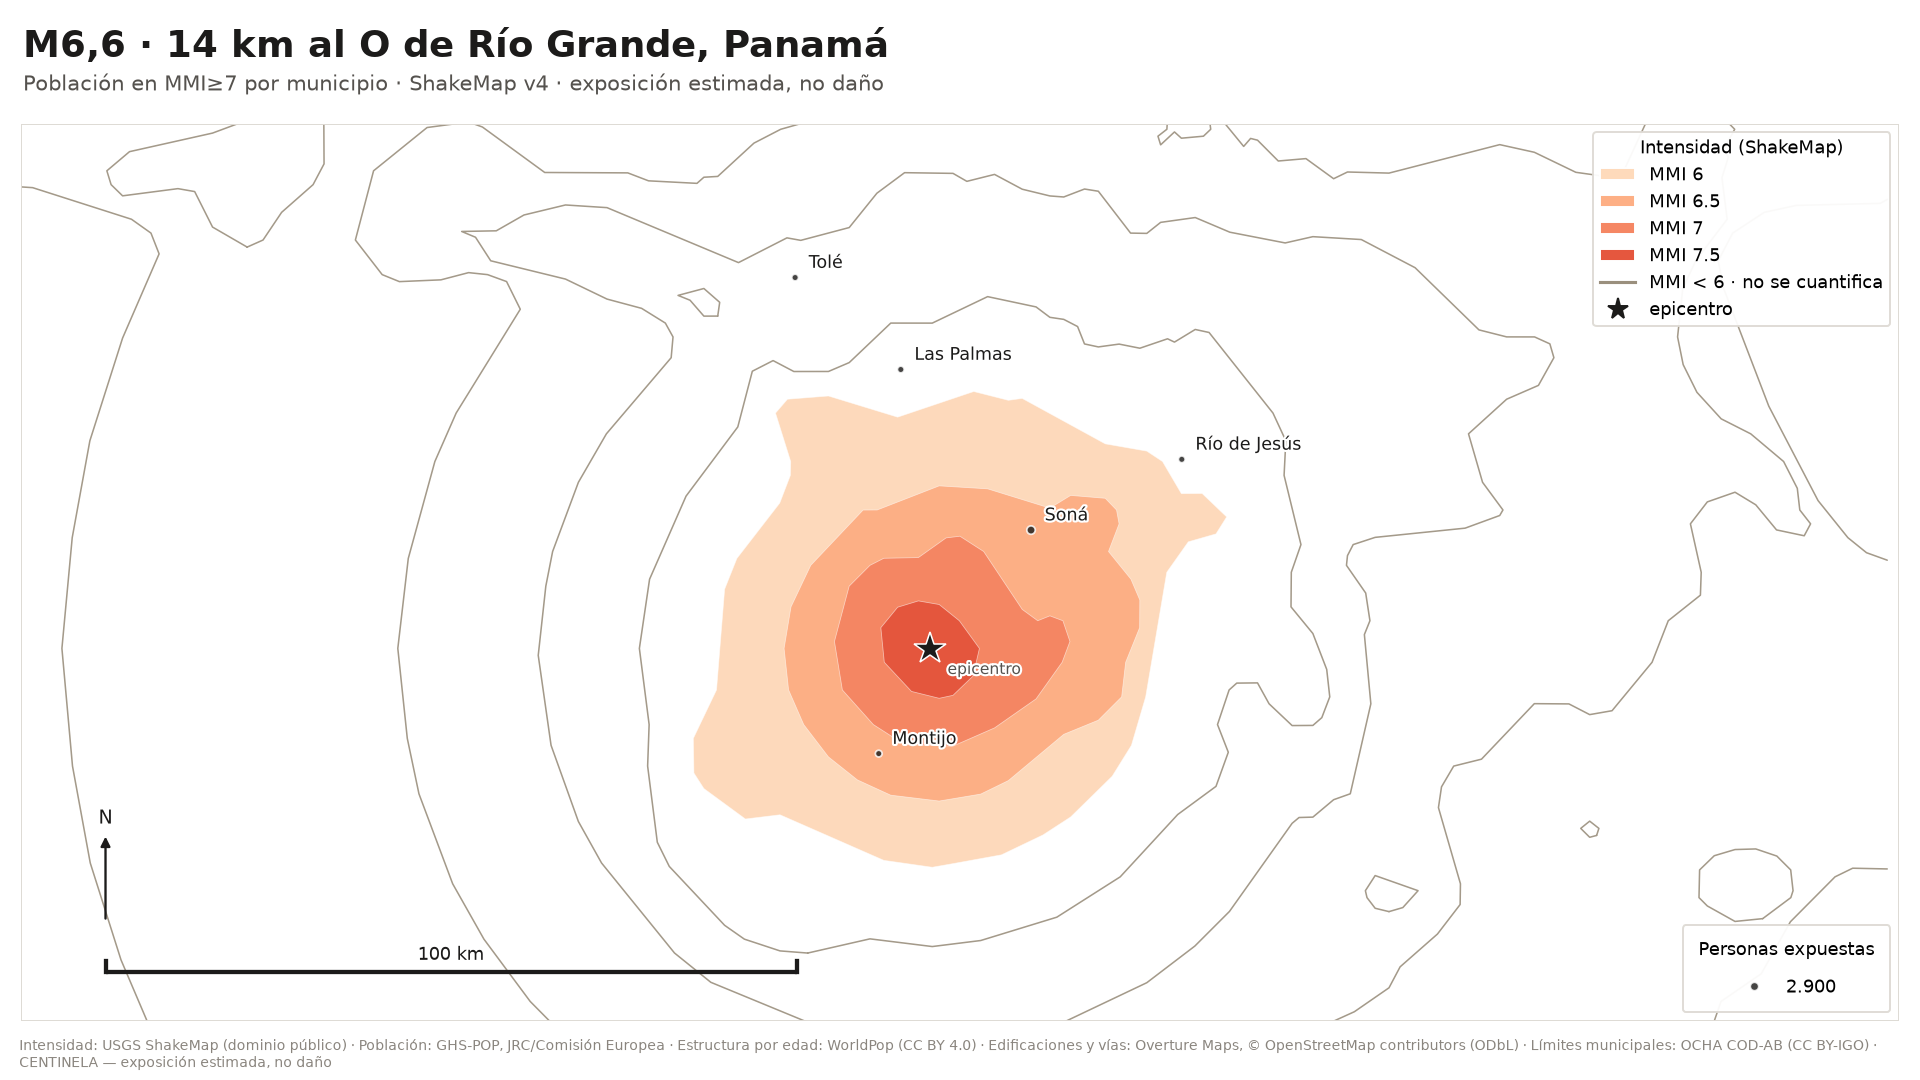
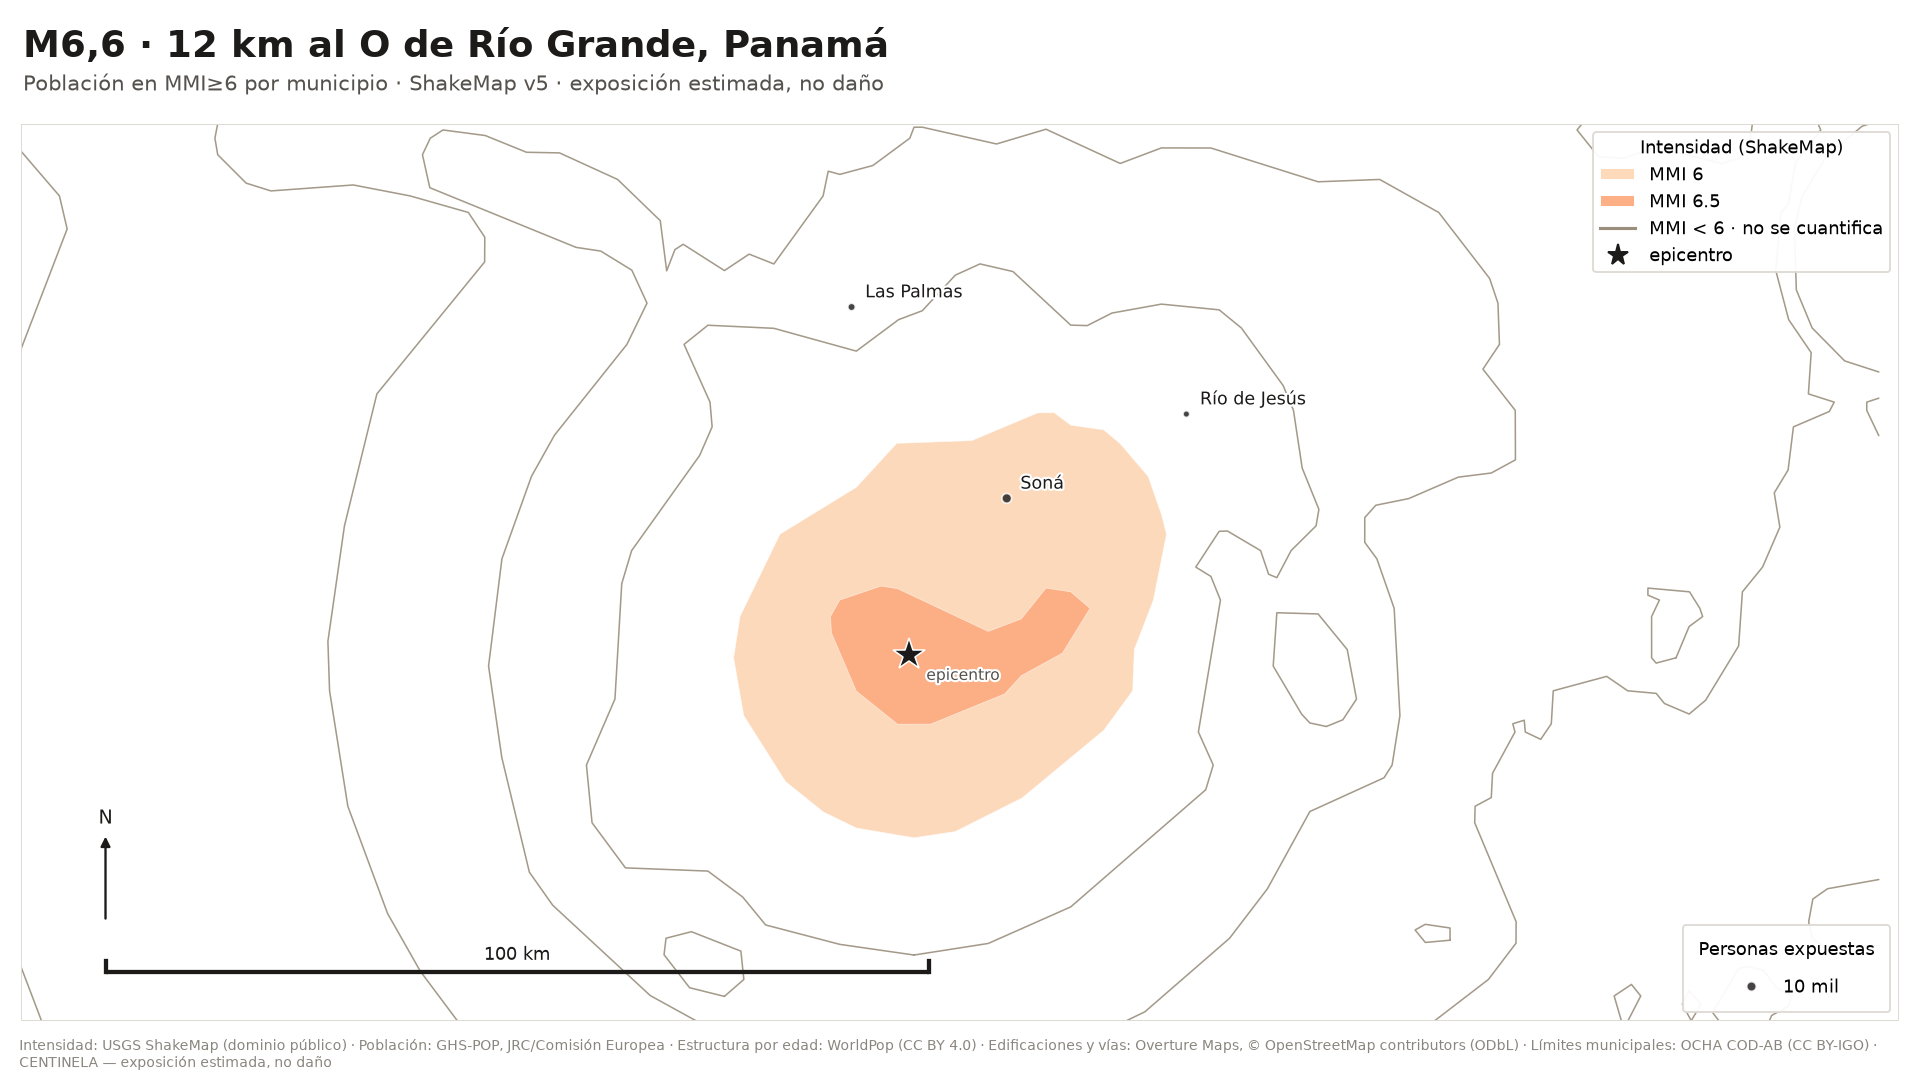
P3: reporte de pt26282001

diff --git a/reports/pt26282001/report.md b/reports/pt26282001/report.md
@@ -1,41 +1,42 @@
-# Exposición sísmica: M6,6 · 14 km al O de Río Grande, Panamá
+# Exposición sísmica: M6,6 · 12 km al O de Río Grande, Panamá
 
-**Evento USGS:** `pt26282001` · **Origen:** 2026-10-09T20:25:40Z UTC · **Profundidad:** 10,0 km
+**Evento USGS:** `pt26282001` · **Origen:** 2026-10-09T20:25:40Z UTC · **Profundidad:** 24,0 km
 
 ## Exposición estimada
 
 | Indicador | Estimado |
 |---|---:|
-| Población en MMI≥6 | 28 mil |
-| Población en MMI≥7 | 2.900 |
+| Población en MMI≥6 | 12 mil |
+| Población en MMI≥7 | el evento no llegó a esta banda |
 | Población en MMI≥8 | el evento no llegó a esta banda |
-| Edificaciones en MMI≥7 | 2.100 |
-| Sedes de salud en MMI≥7 | 0 |
-| Sedes educativas en MMI≥7 | 1 |
-| Vías primarias y secundarias en MMI≥7 | 3 km |
-| Vías locales en MMI≥7 | 44 km |
-| Superficie construida en MMI≥7 | 0,2 km² |
+| Edificaciones en MMI≥6 | 8.200 |
+| Sedes de salud en MMI≥6 | 3 |
+| Sedes educativas en MMI≥6 | 3 |
+| Vías primarias y secundarias en MMI≥6 | 43 km |
+| Vías locales en MMI≥6 | 250 km |
+| Superficie construida en MMI≥6 | 0,9 km² |
 
 Las cifras de esta tabla van redondeadas a dos cifras significativas, que es la precisión que un modelo de exposición sostiene. Las exactas están en el CSV municipal y en `report.json`.
 
-De la población en intensidad MMI≥7, alrededor de **330** personas tienen 65 años o más.
+De la población en intensidad MMI≥6, alrededor de **1.600** personas tienen 65 años o más.
 
-## Municipios más expuestos, por población en MMI≥7
+## Municipios más expuestos, por población en MMI≥6
 
-| # | Municipio | Código | MMI max | Población MMI≥7 |
+| # | Municipio | Código | MMI max | Población MMI≥6 |
 |---:|---|---|---:|---:|
-| 1 | Soná | `PA1312` | 7,5 | 2.900 |
+| 1 | Soná | `PA1312` | 6,5 | 11 mil |
+| 2 | Las Palmas | `PA1305` | 6,0 | 640 |
 
 ## Deslizamiento y licuefacción
 
-- **Deslizamiento.** Población en celdas de MMI≥6 donde el modelo espera ≥ 0,10 de probabilidad de deslizamiento según `jessee_2018_model.tif`: **0**. USGS declara para este evento alerta **amarilla**, con 16 expuestas. El cero de arriba no dice que no haya exposición: dice que ninguna celda llega al umbral.
-- **Licuefacción.** Población en celdas de MMI≥6 donde el modelo espera ≥ 0,10 de cobertura areal por licuefacción según `zhu_2017_general_model.tif`: **12 mil**. USGS declara para este evento alerta **naranja**, con 3.200 expuestas.
+- **Deslizamiento.** Población en celdas de MMI≥6 donde el modelo espera ≥ 0,10 de probabilidad de deslizamiento según `jessee_2018_model.tif`: **0**.
+- **Licuefacción.** Población en celdas de MMI≥6 donde el modelo espera ≥ 0,10 de cobertura areal por licuefacción según `zhu_2017_general_model.tif`: **1.700**. USGS declara para este evento alerta **naranja**, con 3.300 expuestas.
 
 Las dos cifras se cuentan sobre las celdas del corte publicado (MMI≥6). **No son las de USGS y no se pueden comparar de frente**: aquí se cuenta la población entera de toda celda por encima del umbral, y USGS pondera la población de cada celda por el valor de esa celda. Son dos preguntas distintas sobre el mismo ráster.
 
 **Y el umbral se evalúa en un solo punto por celda: su centroide.** El píxel del ráster es más pequeño que la celda, así que ese punto decide si entra la población entera de la celda o no entra ninguna. No es una estadística areal, y el sesgo que introduce no está medido: puede quedarse corto o pasarse.
 
-Fuente: producto *Ground Failure* de USGS (v3), dominio público.
+Fuente: producto *Ground Failure* de USGS (v4), dominio público.
 
 ## Referencia cruzada
 
@@ -45,10 +46,20 @@ Las dos cifras **no se tabulan igual** y no se pueden leer una contra otra: PAGE
 
 ## Incertidumbre y calidad
 
-Discrepancia entre GHS-POP y WorldPop en las bandas MMI publicadas: **7,1 %**.
+Discrepancia entre GHS-POP y WorldPop en las bandas MMI publicadas: **6,8 %**.
 
 ## Cambios frente a la versión anterior
 
+- ShakeMap: v4 (us) → v5 (us)
+- Ground Failure: v3 (us) → v4 (us)
+- Profundidad: 10 → 24 km
+- Epicentro: reubicado 3 km
+- Población en MMI≥6: 28 mil → 12 mil
+- Población en MMI≥7: 2.900 → 0
+- Población de 65 años o más en MMI≥7: 330 → 0
+- Edificaciones en MMI≥7: 2.100 → 0
+- Sedes educativas en MMI≥7: 1 → 0
+- Población en cobertura areal alta por licuefacción: 12 mil → 1.700
 - ShakeMap: v3 (us) → v4 (us)
 - Ground Failure: v2 (us) → v3 (us)
 - Ninguna cifra publicada cambia frente a la versión anterior.
@@ -71,10 +82,10 @@ Discrepancia entre GHS-POP y WorldPop en las bandas MMI publicadas: **7,1 %**.
 
 ## Procedencia
 
-- ShakeMap consumido: **v4** de `us`
-- Ground Failure consumido: **v3** de `us`
+- ShakeMap consumido: **v5** de `us`
+- Ground Failure consumido: **v4** de `us`
 - Manifiesto de exposición: [`pan-v0.4`](https://github.com/sforero77/CENTINELA/blob/main/data/manifests/PAN.yaml)
-- Pipeline: `0.1.0` · Generado: 2026-10-11T11:21:02Z
+- Pipeline: `0.1.0` · Generado: 2026-10-15T10:16:05Z
 
 ## Advertencias
 
